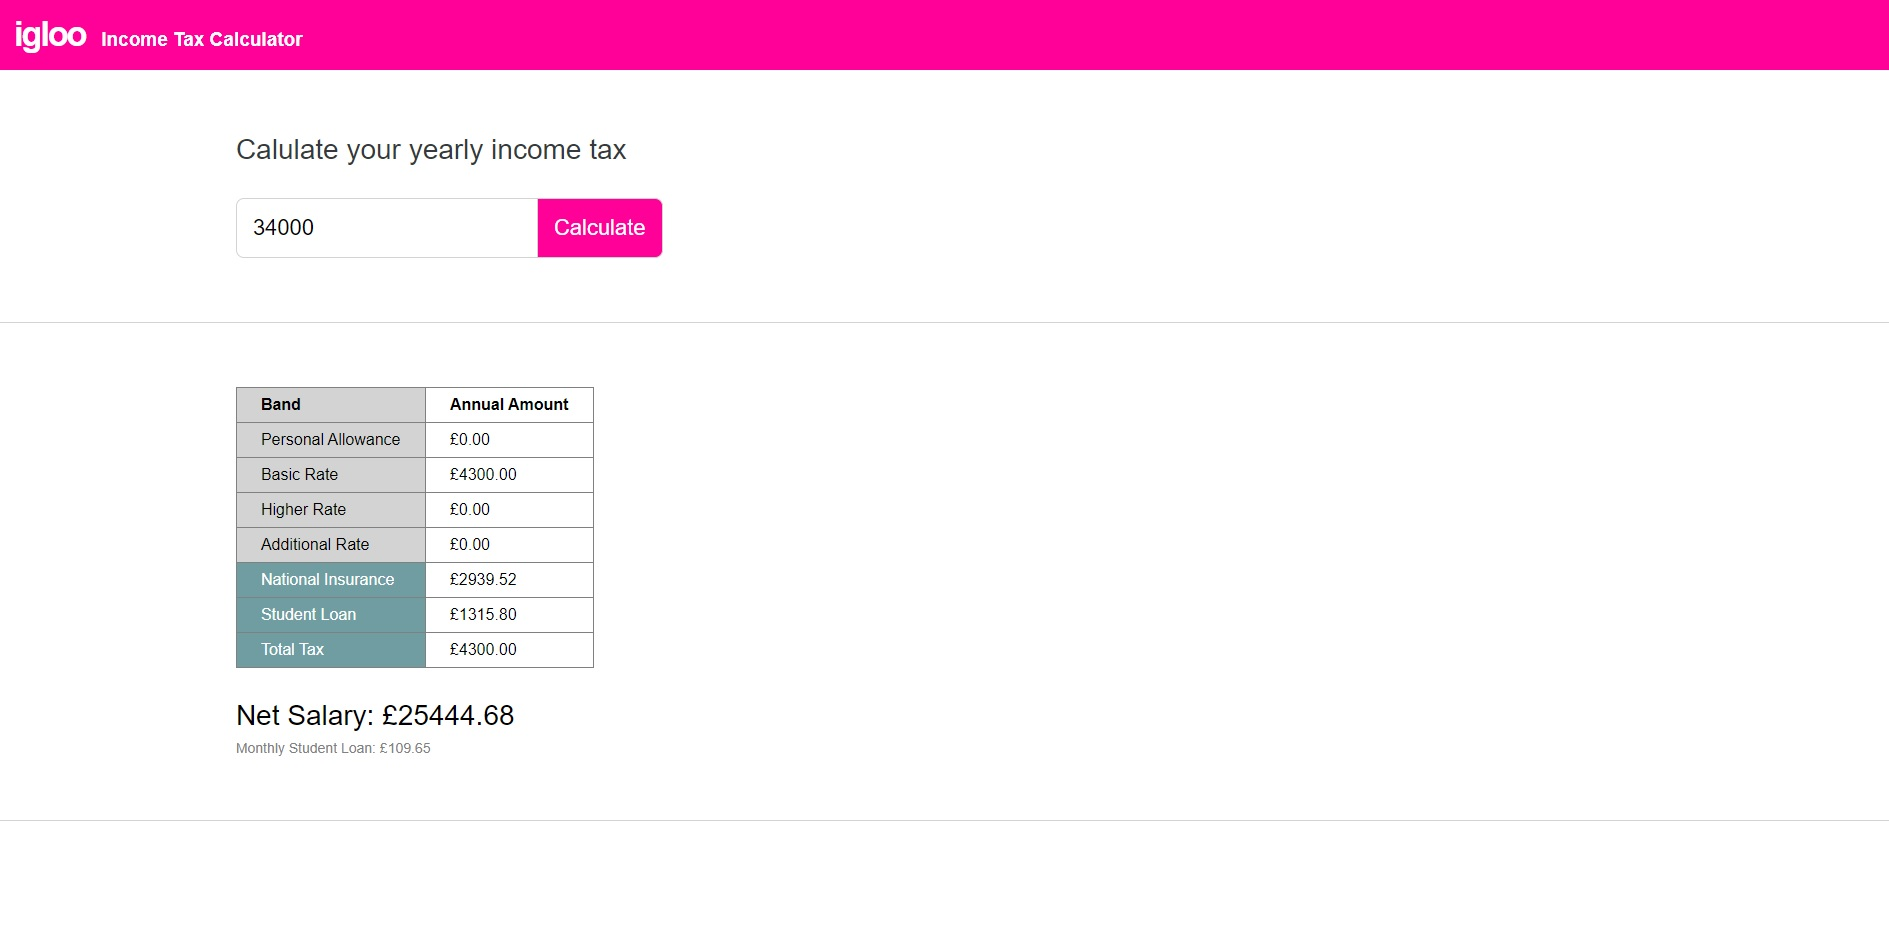
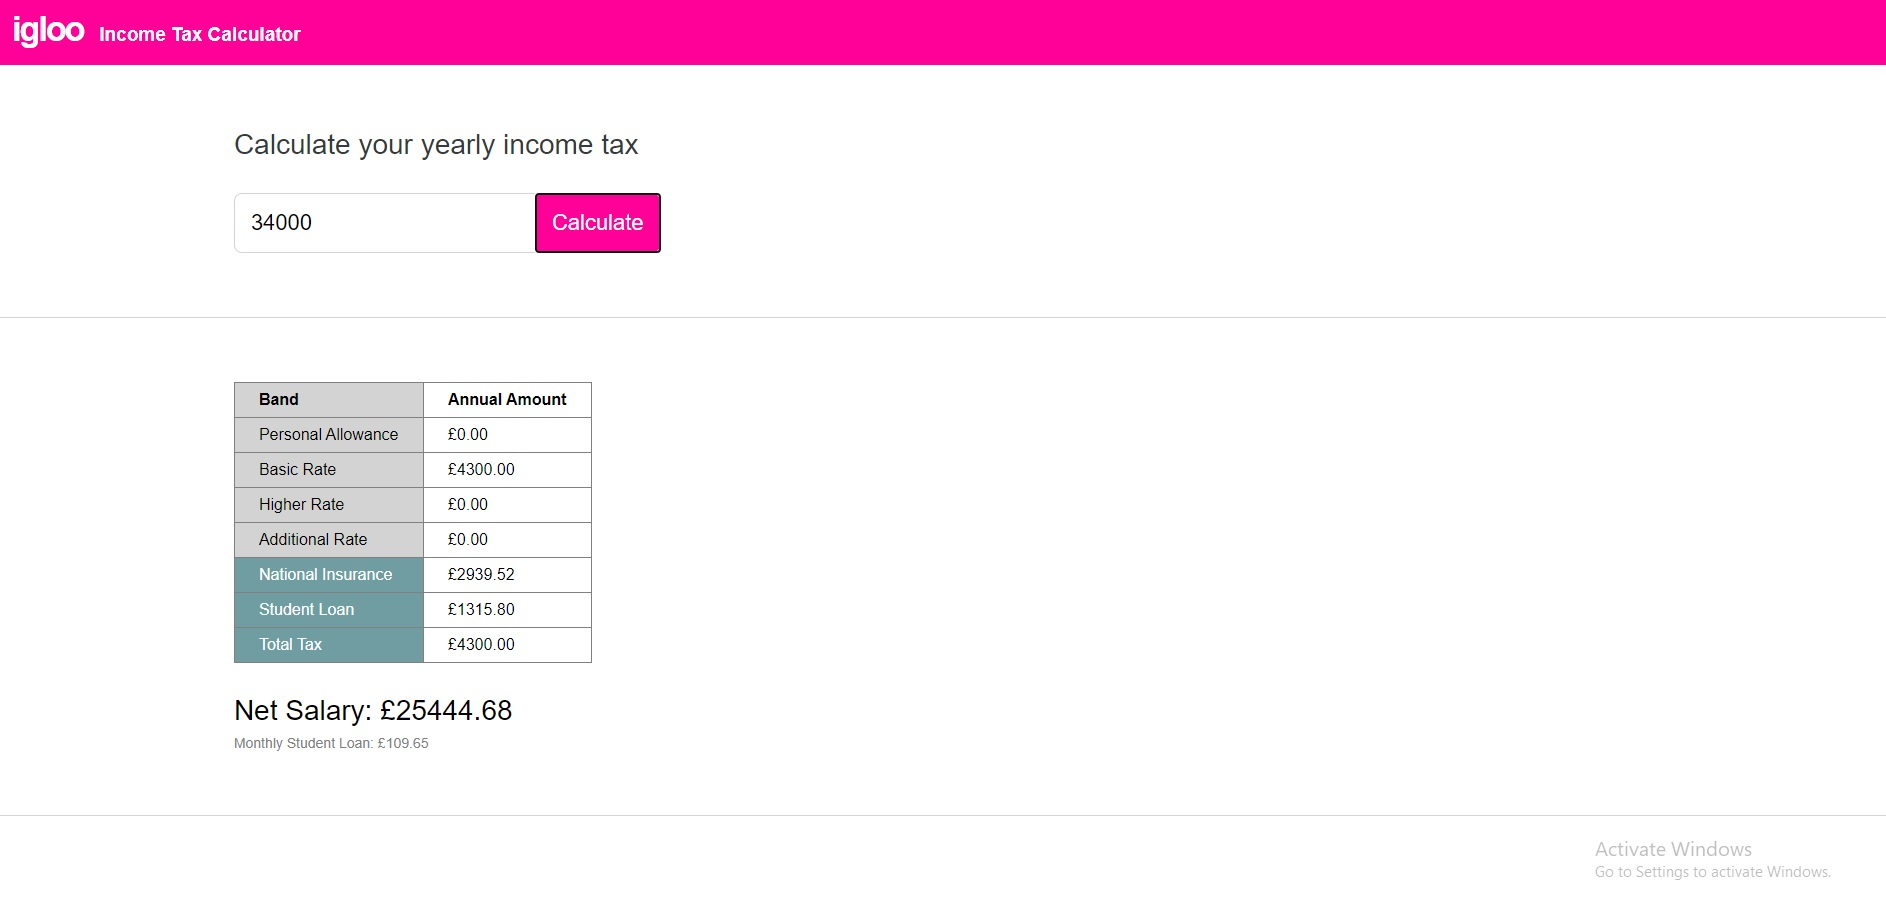
Fixed more typos

diff --git a/README.md b/README.md
@@ -7,4 +7,4 @@ You can access this web app here: https://benpaullamb.github.io/IglooTax/ hosted
 
 This web app uses option 1. front-end application. I created this with React.js. The design of the application is made to mimic Igloo Energy's website design.
 
-Some basics tests were written with Jest for the gross to net calculations, including actual example salaries, along with other inputs such as non-numbers.
+Some basic tests were written with Jest for the gross to net calculations, including actual example salaries, along with other inputs such as non-numbers.
